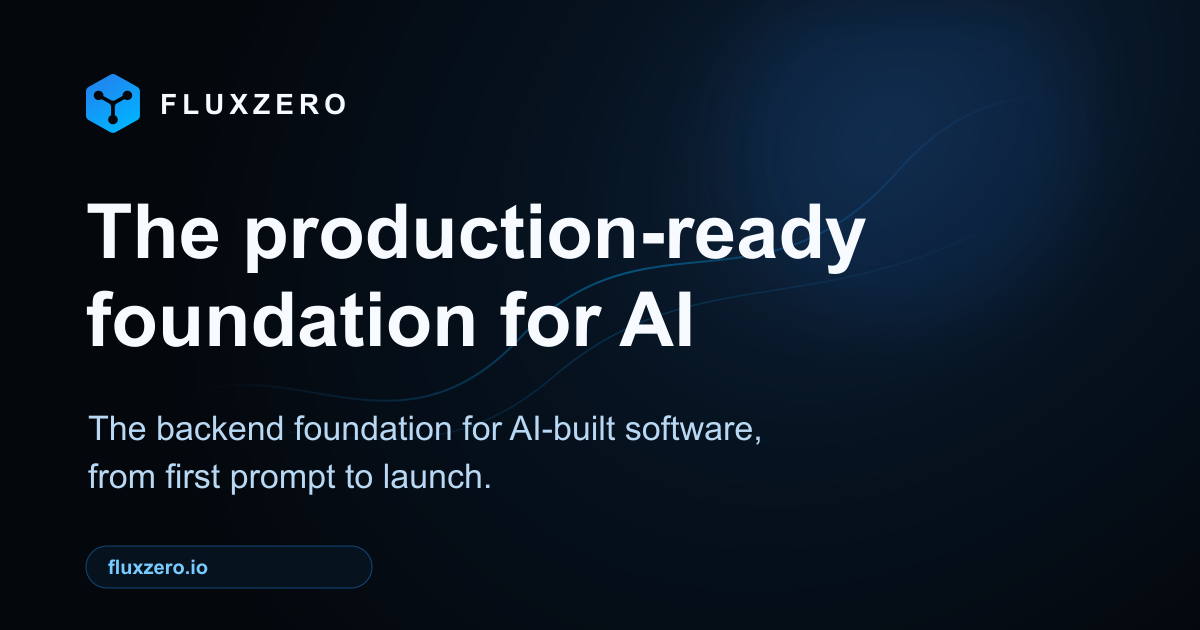
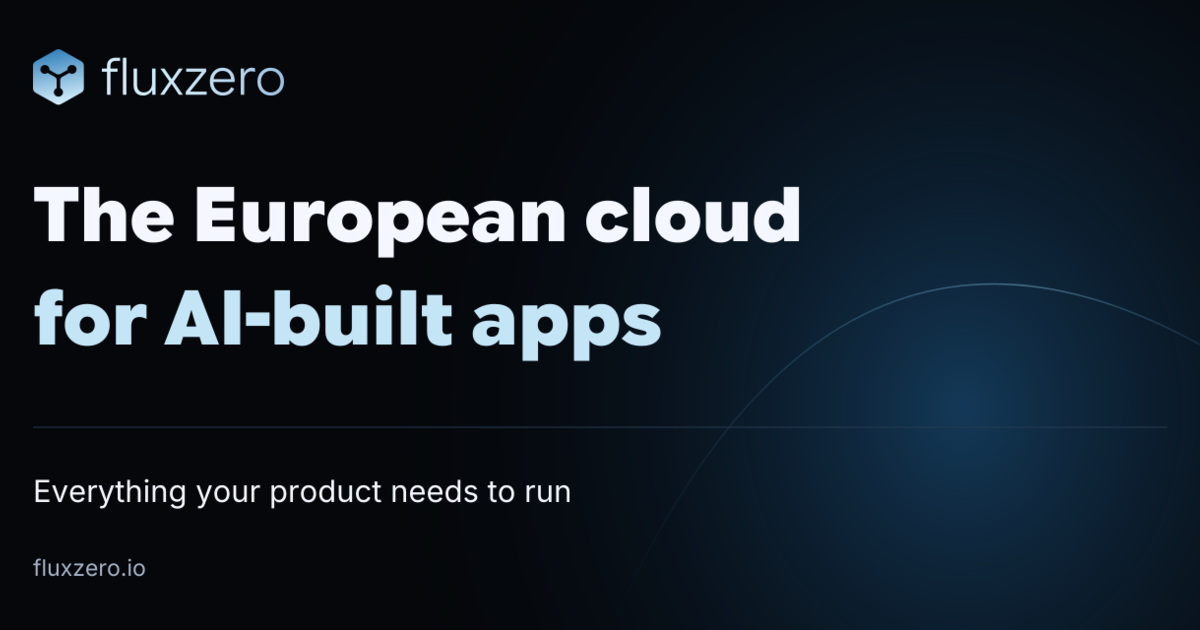
fix(marketing): align public brand messaging [skip ci]

diff --git a/AGENTS.md b/AGENTS.md
@@ -25,7 +25,7 @@ This is an Astro site using pnpm as the package manager:
 
 ## Product Context
 
-**Fluxzero** is a production-ready foundation for AI-generated and prompt-built software.
+**Fluxzero** is the European cloud for AI-built apps.
 
 Its core promise on the marketing site:
 
@@ -39,7 +39,7 @@ Avoid leading with Java, Kotlin, SDK names, event sourcing, annotations, or inte
 ### Primary Audiences
 
 - Prompt-first builders who want to build products with AI agents.
-- Founders, operators, and product teams who want production-ready software without assembling the entire backend foundation themselves.
+- Founders, operators, and product teams who want reliable software without assembling the entire backend foundation themselves.
 - Technical decision makers who want confidence that the generated product has solid architecture underneath.
 - Developers and AI agents are a secondary audience for `/docs`, not the default audience for the homepage or pricing page.
 
